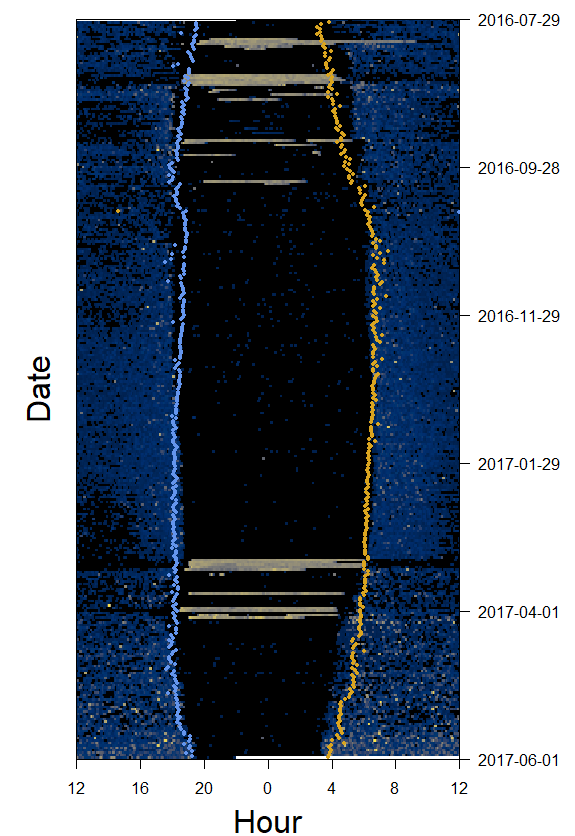
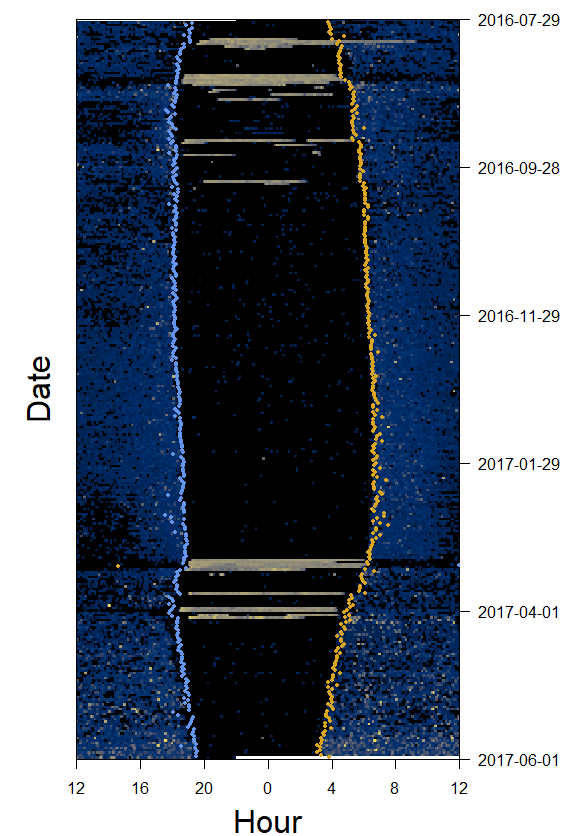
updated addTWL examples

Changed region(s): [[0.2957, 0.0311, 0.3548, 0.9019], [0.5322, 0.4665, 0.68, 0.9019], [0.5322, 0.0311, 0.68, 0.4354]]

diff --git a/README.md b/README.md
@@ -138,7 +138,7 @@ It is also possible to have night in the middle and then to plot sunrise and sun
 ```r
 par(mar=c(4,4,1,6))
 offset=12
-plotACTOGRAM(date = PAM_data$acceleration$date,activity = PAM_data$acceleration$act, offset=offset,col=viridis::cividis(90))
+plotACTOGRAM(date = PAM_data$acceleration$date,activity = PAM_data$acceleration$act, offset=offset,col=c("black",viridis::cividis(90)))
 addTWL(twilights$tFirst, offset=offset, col= ifelse(twilights$type == 1,  "goldenrod","cornflowerblue"), pch=16, cex=0.5)
 ```
 <img align="center" src="https://raw.githubusercontent.com/KiranLDA/PAMLr/master/graphics/nightmiddle.png">
